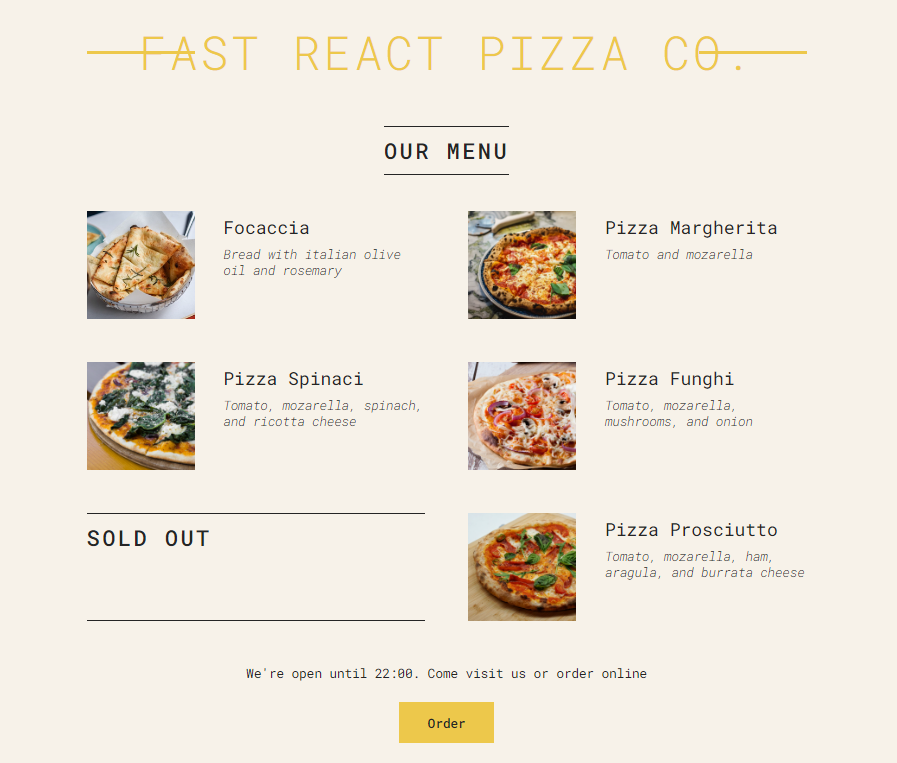
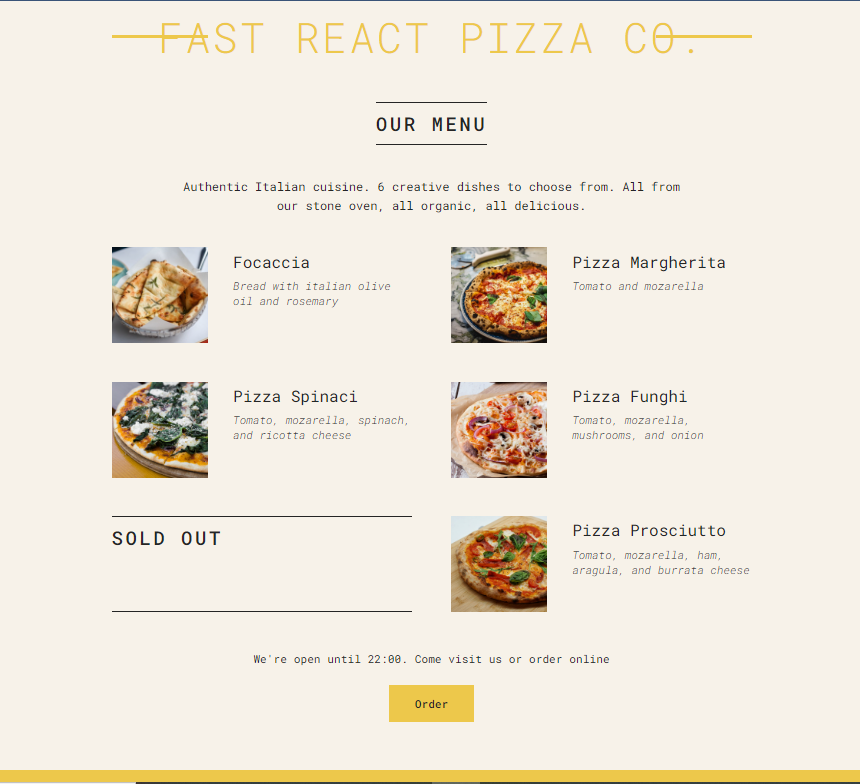
fragment

diff --git a/sec-5-components-props-jsx/pizza/src/index.tsx b/sec-5-components-props-jsx/pizza/src/index.tsx
@@ -72,12 +72,19 @@ function Menu() {
   return (
     <main className="menu">
       <h2>Our Menu</h2>
+
       {pizzas ? (
-        <ul className="pizzas">
-          {pizzaData.map((pizza) => (
-            <Pizza pizzaObj={pizza} key={pizza.name} />
-          ))}
-        </ul>
+        <>
+          <p>
+            Authentic Italian cuisine. 6 creative dishes to choose from. All
+            from our stone oven, all organic, all delicious.
+          </p>
+          <ul className="pizzas">
+            {pizzaData.map((pizza) => (
+              <Pizza pizzaObj={pizza} key={pizza.name} />
+            ))}
+          </ul>
+        </>
       ) : (
         <p>We're still working on our menu, please come back later.</p>
       )}
